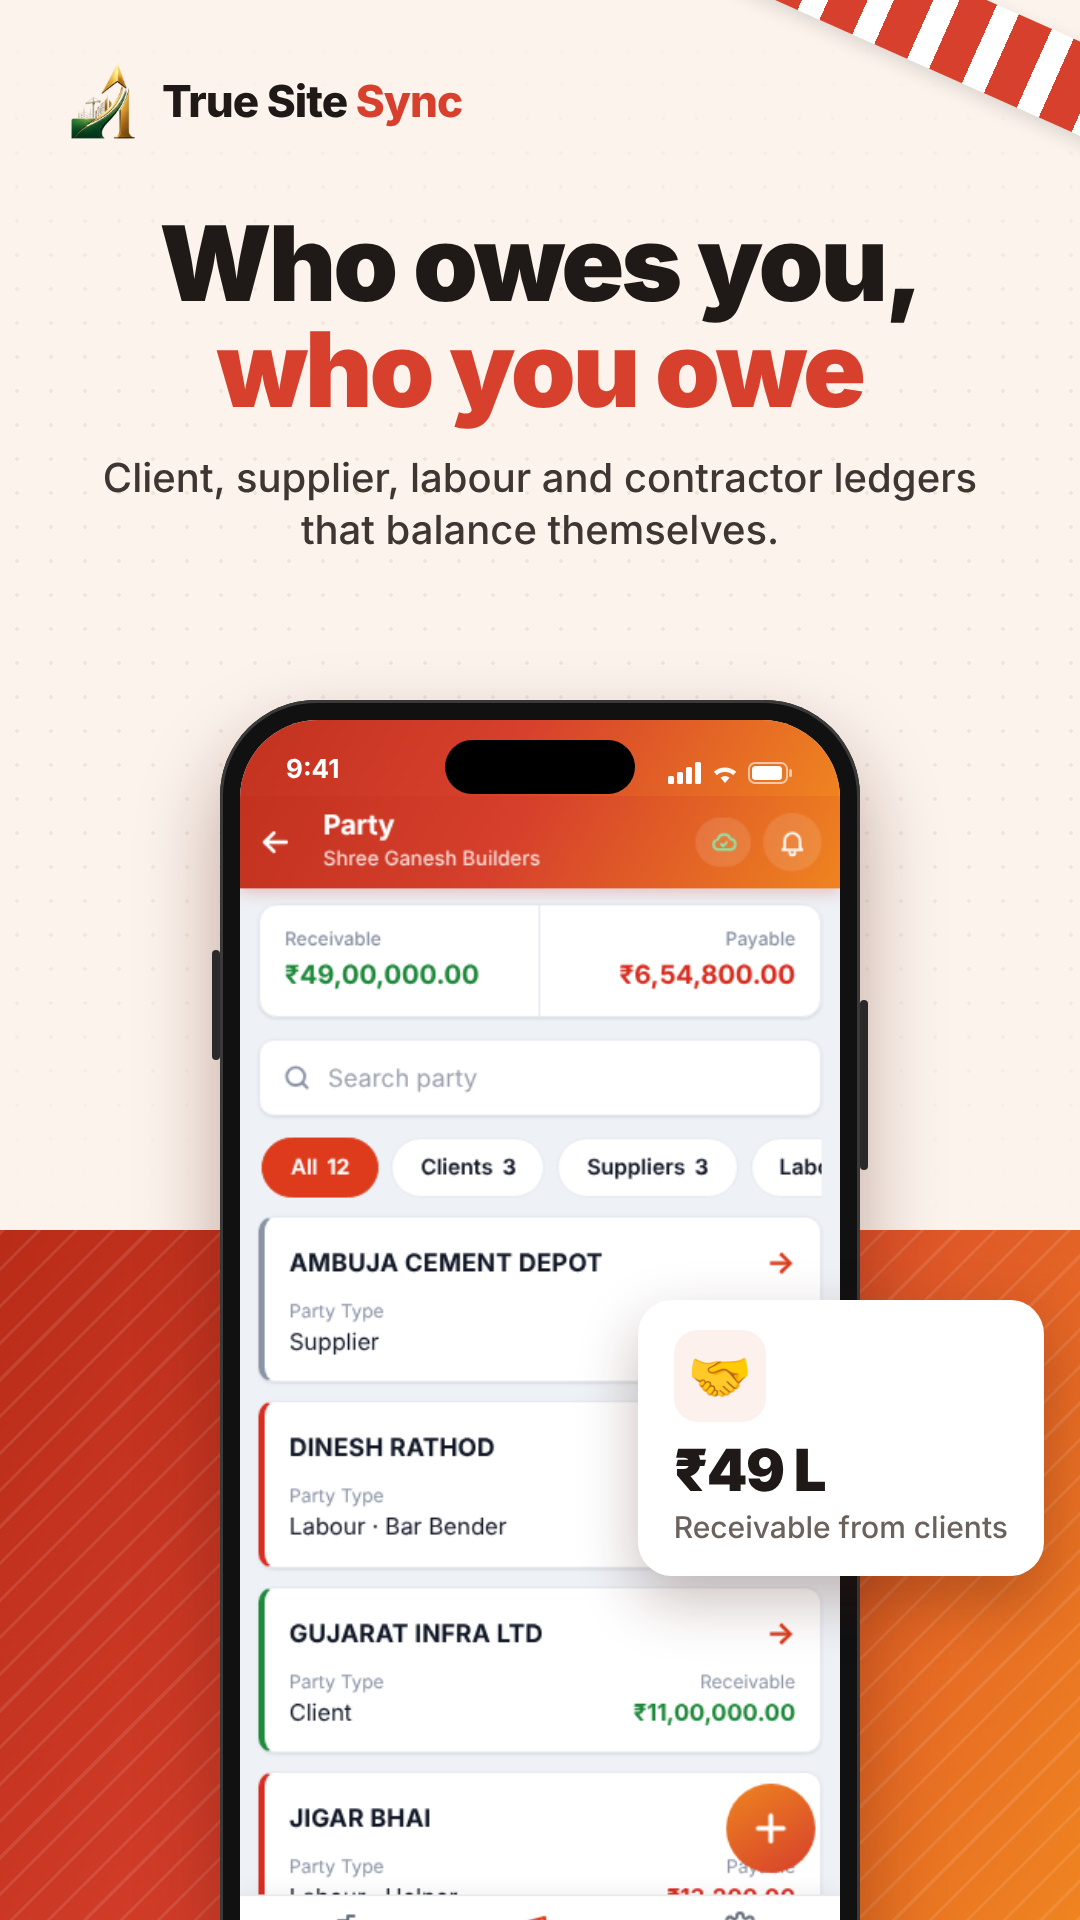
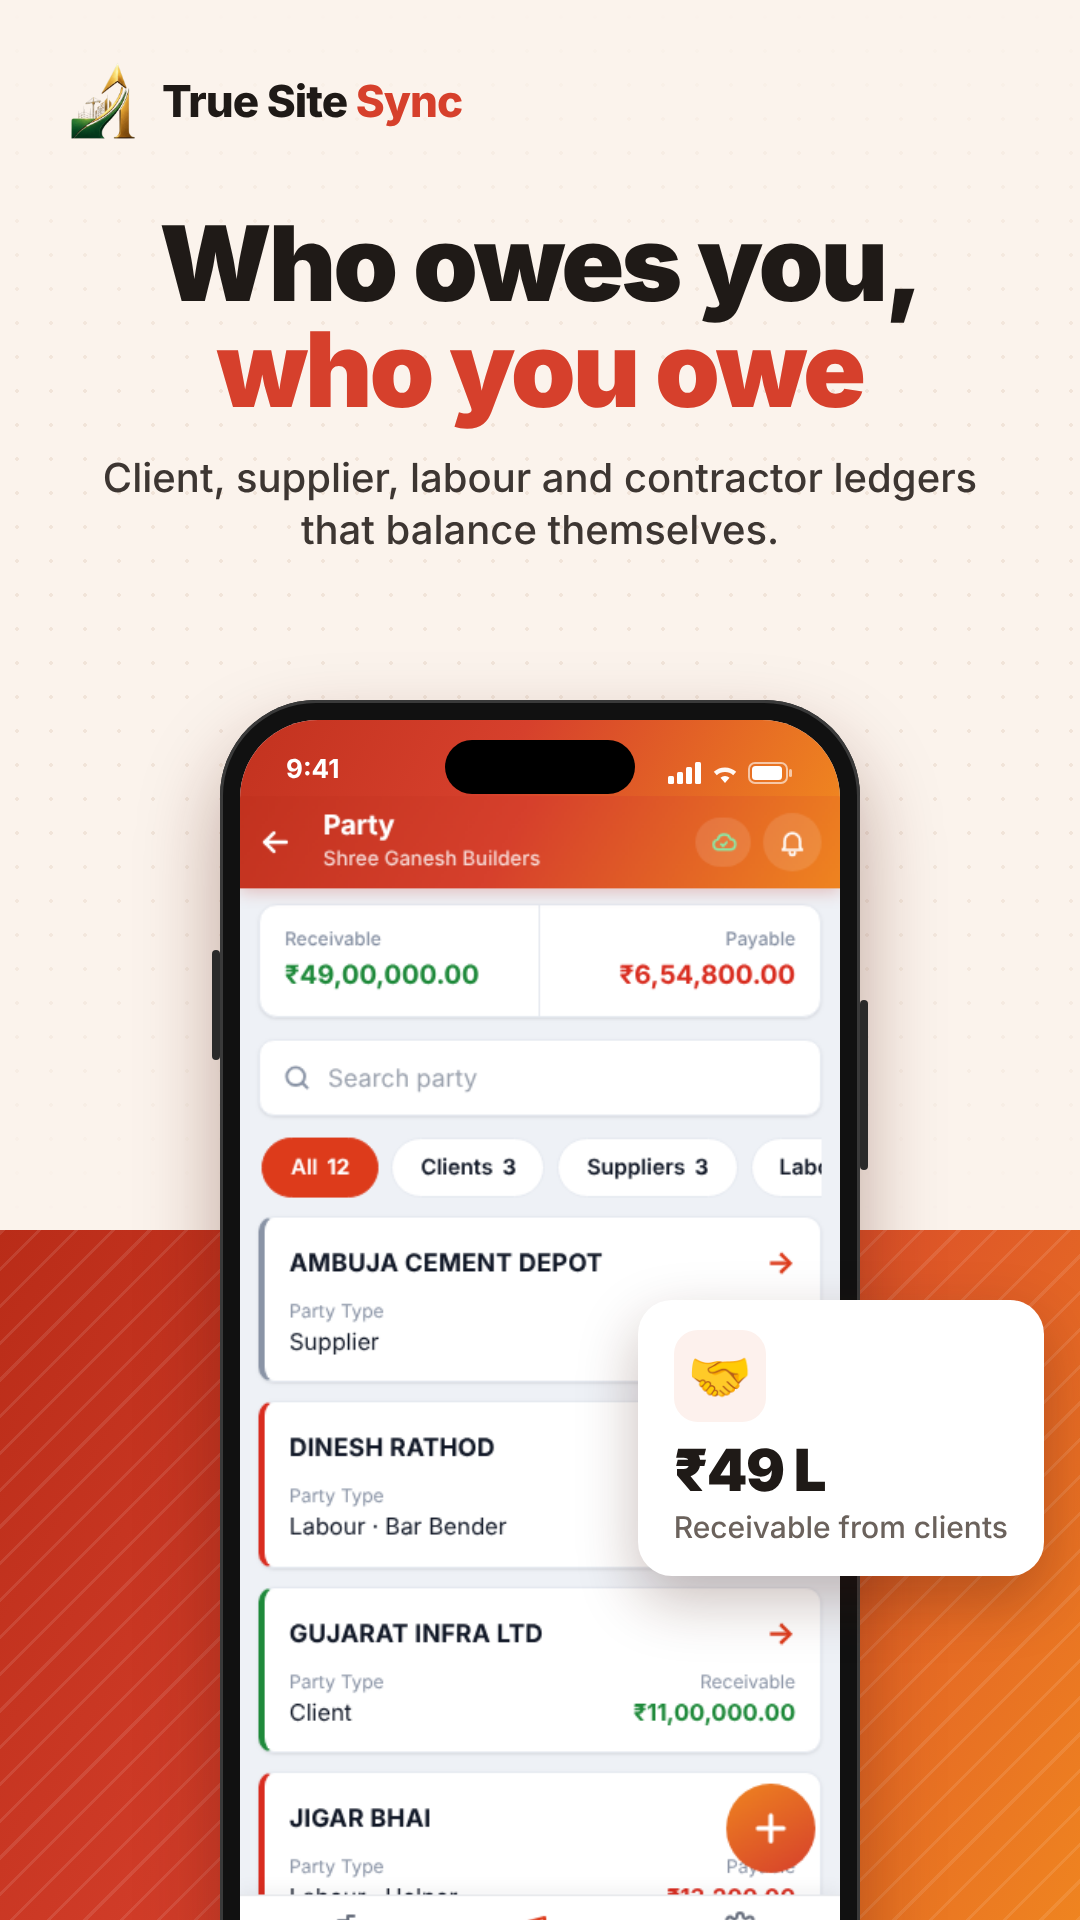
Play Store screenshots: remove the red-white corner strip
Claude-Session: https://claude.ai/code/session_01Czkj8SZUU1cG9Bm6ZrWzBB

Changed region(s): [[0.7639, 0.0, 1.0, 0.0938]]

diff --git a/tools/store-screens/poster.html b/tools/store-screens/poster.html
@@ -6,7 +6,6 @@ body{font-family:Inter,sans-serif;background:#FBF3EC;position:relative;color:#1f
 .band{position:absolute;left:0;right:0;top:1230px;bottom:0;background:linear-gradient(120deg,#B92C18 0%,#D6402C 45%,#EF8420 100%)}
 .band:after{content:"";position:absolute;inset:0;opacity:.10;background:repeating-linear-gradient(-45deg,#fff 0 3px,transparent 3px 26px)}
 .grid{position:absolute;left:0;right:0;top:0;height:1230px;opacity:.5;background-image:radial-gradient(#e9d7c8 1.6px,transparent 1.6px);background-size:34px 34px;mask-image:linear-gradient(180deg,transparent 0,#000 30%,#000 70%,transparent)}
-.stripes{position:absolute;top:-30px;right:-90px;width:520px;height:86px;transform:rotate(24deg);background:repeating-linear-gradient(90deg,#D6402C 0 36px,#fff 36px 60px);box-shadow:0 6px 18px rgba(0,0,0,.12)}
 .brand{position:absolute;top:58px;left:60px;display:flex;align-items:center;gap:16px}
 .brand img{width:86px;height:86px;object-fit:contain}
 .brand b{font-size:44px;font-weight:800;letter-spacing:-1px}
@@ -29,7 +28,7 @@ body{font-family:Inter,sans-serif;background:#FBF3EC;position:relative;color:#1f
 .card .v{font-size:58px;font-weight:900;letter-spacing:-1.5px;color:#1f1a17;line-height:1.05}
 .card .lb{font-size:30px;color:#6b625c;margin-top:8px;font-weight:500;line-height:1.25}
 </style></head><body>
-<div class="grid"></div><div class="band"></div><div class="stripes"></div>
+<div class="grid"></div><div class="band"></div>
 <div class="brand"><img src="logo.png" alt=""><b>True Site <span>Sync</span></b></div>
 <div class="hd"><h1 class="l1" id="l1"></h1><h1 class="l2" id="l2"></h1><p id="sub"></p></div>
 <div class="phone"><div class="scr"><div class="isl"></div><div class="sb"><span>9:41</span><i><svg width="34" height="22" viewBox="0 0 34 22" fill="#fff"><rect x="0" y="14" width="6" height="8" rx="1.5"/><rect x="9" y="10" width="6" height="12" rx="1.5"/><rect x="18" y="5" width="6" height="17" rx="1.5"/><rect x="27" y="0" width="6" height="22" rx="1.5"/></svg> <svg width="30" height="22" viewBox="0 0 30 22" fill="#fff"><path d="M15 21l4.5-5.2a6.5 6.5 0 0 0-9 0z"/><path d="M15 5.5c4.3 0 8.2 1.6 11.2 4.3l-3 3.4A12 12 0 0 0 15 10a12 12 0 0 0-8.2 3.2l-3-3.4A16.6 16.6 0 0 1 15 5.5z" opacity=".95"/></svg> <svg width="46" height="22" viewBox="0 0 46 22"><rect x="1" y="1" width="38" height="20" rx="6" fill="none" stroke="#fff" stroke-width="2" opacity=".6"/><rect x="4" y="4" width="30" height="14" rx="3.5" fill="#fff"/><rect x="41" y="7" width="3" height="8" rx="1.5" fill="#fff" opacity=".6"/></svg></i></div><img class="app" id="app"></div></div>
